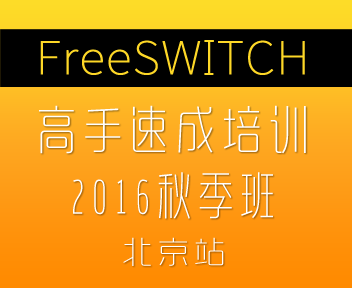
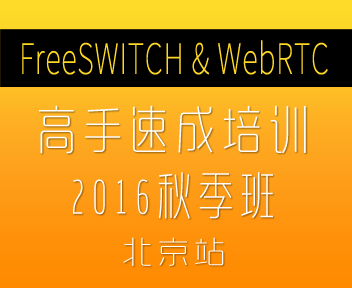
2016.8

Changed region(s): [[0.0625, 0.125, 0.9062, 0.2812], [0.9062, 0.25, 0.9375, 0.2812], [0.9062, 0.125, 0.9375, 0.1562]]

diff --git a/fst1608.md b/fst1608.md
@@ -1,0 +1,183 @@
+---
+layout: training
+title: "FreeSWITCH & WebRTC高手速成培训2016秋季班（北京站）"
+tags:
+  - "培训"
+---
+
+# {{ page.title }}
+
+<strong style="color:red">2016年 8 月 28 - 30 日，FreeSWITCH & WebRTC高手速成培训震撼来袭，点击如下按钮报名</strong>。
+
+<br>
+
+<div style="line-height:40pt"><a target="_blank" href="http://www.wanshe.cn/orders/view/13542" style="font-size:36pt;background-color:red;color:yellow"> 报名尚未开始 </a><br>
+（桌面版，支持支付宝或线下支付）</div>
+
+<!-- <br>
+
+<div style="line-height:40pt"><a target="_blank" href="https://wap.koudaitong.com/v2/showcase/goods?alias=3nrmk96kukx37" style="font-size:36pt;background-color:green;color:yellow"> 报名尚未开始 </a><br>（移动版，仅支持微信支付）</div>
+
+
+<br>
+ -->
+
+<strong>本次培训由烟台小樱桃网络科技有限公司提供，烟台小樱桃是北京信悦通旗下公司，国内唯一专业提供FreeSWITCH培训的机构</strong>
+
+<!-- 凡是报名参加此次培训的学员，均可免费获得由杜金房著《FreeSWITCH权威指南》一本，我们会在您支付学费后的一周内寄出此书。 -->
+
+<!-- 如果我们把书寄到您手上，而您又取消报名，此书不支持退回，我们会在您的学费里扣除100元的书费，再按退款政策给您退费。 -->
+
+<br><br>
+
+<img src="/images/training/fst1605.png">
+
+<br><br>
+
+
+## 培训大纲：
+
+- 第一天，8月28日：
+
+    主讲：杜
+
+    FreeSWITCH基础知识和基本概念
+FreeSWITCH高级配置实例
+SIP/RTP详解及案例分析
+WebRTC
+
+- 第二天，8月29日：
+
+    主讲：杜
+
+    视频转码和视频会议
+Lua、Javascript开发
+ESL开发，接口设计，用inbound还是outbound，性能评测，瓶颈在哪里（需要C语言或Java等语言基础）
+
+    学员成功经验及案例分享
+经典问题解答
+
+    晚上：Party (主办方提供)
+
+- 第三天，8月30日：
+
+    主讲：胡
+
+    深入浅出WebRTC
+
+    1、WebRTC介绍
+1.1、WebRTC是什么？
+1.2、WebRTC发展状况
+
+    2、WebRTC开发
+2.1、关于信令服务
+2.2、浏览器开发
+2.3、Windows桌面开发
+2.4、Android开发
+2.5、iOS开发
+
+    3、媒体服务
+3.1、关于媒体服务
+3.2、如何实现多人通话？
+3.3、视频直播
+3.4、视频会议
+
+    4、交流探讨
+4.1、WebRTC都有哪些坑？
+4.2、WebRTC发展方向
+4.3、WebRTC应用场景
+4.4、WebRTC与FreeSWITCH
+4.5、VP8/VP9与H264/H265
+
+## 讲师介绍：
+
+一：杜金房（Seven Du）
+
+北京信悦通和烟台小樱桃创始人，FreeSWITCH-CN中文社区创始人，FreeSWITCH代码贡献和维护者。资深网络通信技术专家，在网络通信领域耕耘15年，精通VoIP、SIP和FreeSWITCH等各种网络协议和技术，经验十分丰富。有超过6年的FreeSWITCH应用和开发经验，不仅为国内大家大型通信服务厂商提供技术支持和解决方案而且客户还遍及美洲、东南亚、欧洲海外国家和地区。
+
+杜金房是FreeSWITCH-CN中文社区创始人兼执行主席，被誉为国内FreeSWITCH领域的“第一人”；在FreeSWITCH开源社区非常活跃，不仅经常为开源社区提交补丁和和特性，而且还开发了多款插件；此外，他经常在FreeSWITCH的wiki上分享自己的使用心得和经验，2011年、2012年和2013年应邀参加在美国芝加哥举办的ClueCon大会，并发表主题演讲。此外，他还精通C、Erlang、Ruby、Lua等语言相关的技术。
+
+自2011年起，在国内外大中小企业中提供各种级别的FreeSWITCH培训十余次，2013年6月在北京开始举办公共FreeSWITCH培训班。
+
+著有《FreeSWITCH：VoIP实战》网络版电子书，实体书[《FreeSWITCH权威指南》](http://book.dujinfang.com)由华章公司机械工业出版社出版。
+
+二：胡凌云
+
+国内WebRTC & Kurento技术解决方案专家，曾任搜狐视频、韩国SK电信、爱玩网络的咨询顾问，多年视频直播、在线教育、智能家居、金融证券、安防监控等领域的咨询经验，目前担任深圳问津技术有限公司CEO 。
+## 费用：
+
+三天培训共人民币5000元（含午餐，第二天晚上的全体晚宴，不含其它食宿）
+
+2016年 6 月 20 日上午7点开始报名，7 折(3500RMB)，仅限一天，不限人数；
+
+2016年 6 月 21 ～ 7 月 21 日报名 8 折(4000RMB)；
+
+2016年 7 月 22 ～8 月 21 日报名 9 折(4500RMB)；
+
+2016年 8 月 22 日以后报名不打折(5000RMB)。
+
+自6月20日起，2人以上同时购票（开一张发票），可向联系人申请优惠码。
+
+全日制本科、硕士在读学生，凭学生证报名在原价基础上打 6 折。
+
+凡以前参加过FreeSWITCH培训的学员，再次参加本次培训，向联系人申请优惠码，可享受 6 折优惠。
+
+## 培训地址：
+
+北京市
+
+## 付款说明：
+
+我们支持支付宝或线下付款，选择线下付款的报名者，请在72小时内支付，逾期未支付者订单自动取消。
+
+## 退款政策：
+
+如果您报名后因故不能来上课，开课前2日前申请退款收20%管理费。开课前2日内及开课后收取50%管理费。
+
+## 注意事项：
+
+* 培训第一天的签到时间是上午9:00
+* 学员可携带个人电脑，以便进行实战练习。
+* 请自行安装FreeSWITCH（各种版本都可以），以节约时间。
+* 周日晚上杜老师跟全体学员共进晚餐，提前安排时间，如向家里的领导请假等。
+* 如果你在线上支付有问题，请与我们联系。
+* 如有素食主义、宗教或其它原因忌口的学员，请及时告知联系人，以便做好提前准备。
+
+## 常见问题：
+
+### 能否开发票？
+
+能，我们会在培训结束后的一周内给您寄出发票。
+
+### 培训费是否能便宜点？
+
+软的，杜老师独到的讲课的内容和教学方法是在别外听不到的。硬的，我们在各地培训都是找当地专业的合作伙伴以及专业的场地，各种策划和宴会也需要一些费用。尽早注册能享受较低的折扣。
+
+### 培训内容能具体点吗？
+
+我们本次培训课程内容适合0基础及一定基础的或者老学员，对中高级学员更有很大帮助。在很多老学员愿意多次来参加培训，将所触及的知识点深入化、系统化。
+
+具体培训内容应该是以《FreeSWITCH权威指南》为主，但比书上更生动，也会根据课堂情况灵活发散。也可以应学员要求侧重某方面的知识。
+
+### 下次培训是什么时候？能到XX城市培训吗？
+
+我们非常愿意把FreeSWITCH培训常态化。但是，组织一场培训需要动用很多人，花费很多精力。从我们的经验来看，学员大部分还是集中于北上广等大城市，而且，不管我们在什么城市培训，都有千里迢迢赶来的求学者，所以，在可以预见的将来我们将还是集中在这几个城市。当然，我们也不拒绝当地土豪的盛情，如果任何城市能做到20人以上的规模，请与我们联系，我们很乐意前往。
+
+## 联系方式：
+
+安经理 电话：18605359919 邮件：training@x-y-t.cn
+
+微信公众平台：FreeSWITCH-CN
+
+新浪微博：@ FreeSWITCH-CN
+
+往期培训回顾：<http://www.freeswitch.org.cn/training.html#past>
+
+## 协办单位：
+
+<a href="http://www.grandstream.cn/About.aspx?TypeId=15">深圳市潮流网络技术有限公司</a>（Grandstream）将为本次培训会提供实验环境所需要的IP电话、高清视频电话、SIP摄像机并向每位参加培训的学员赠送单口语音网关或IP电话机一台。Grandstream是全球知名的统一通讯和整体解决方案厂商和全球TOP3 VoIP终端供应商，是国内IMS、统一通信、呼叫中心、调度市场、视频监控的主要SIP终端供货厂商，成功案例包括京东、网易、凡客诚品、平安、中集、东航、国家电网、中石化、中石油、外交部、中移动、中电信等等，公司是中国三大运营商IMS市场主要核心合作SIP终端厂商，入围中国电信集团IMS SIP电话短名单，持续配合运营商研究院SIP硬终端的核心业务及协议定制，参与及进入中电信、中移动多个省试点应用和产品供应厂商。在全球与渠道及增值合作伙伴成功服务将近千万终端用户，包括全球主流运营商数十万套终端以及美国共和党和美国民主党数万套SIP电话和网关等大型成功部署案例，连续10年保持近50%年复合增长率。
+
+
+## 赞助单位
+
+<a href="http://www.hiastar.com/"><img src="http://www.freeswitch.org.cn/images/sangoma.png" /></a>

diff --git a/training.md b/training.md
@@ -25,7 +25,7 @@ FreeSWITCH培训课程主要分两大类：
 
 <div style="text-align:center">
   
-<a href='http://www.freeswitch.org.cn/fscnds-2016.html#' style="margin:2px"><img src="/images/training/fst1605.png"></a>
+<a href='/fst1608.html' style="margin:2px"><img src="/images/training/fst1605.png"></a>
   <a href='#' style="margin:2px" onclick="alert('感谢关注，敬请期待...');return false;"><img src="http://www.freeswitch.org.cn/images/training/freeswitch-t0.png"></a>
 </div>
 
